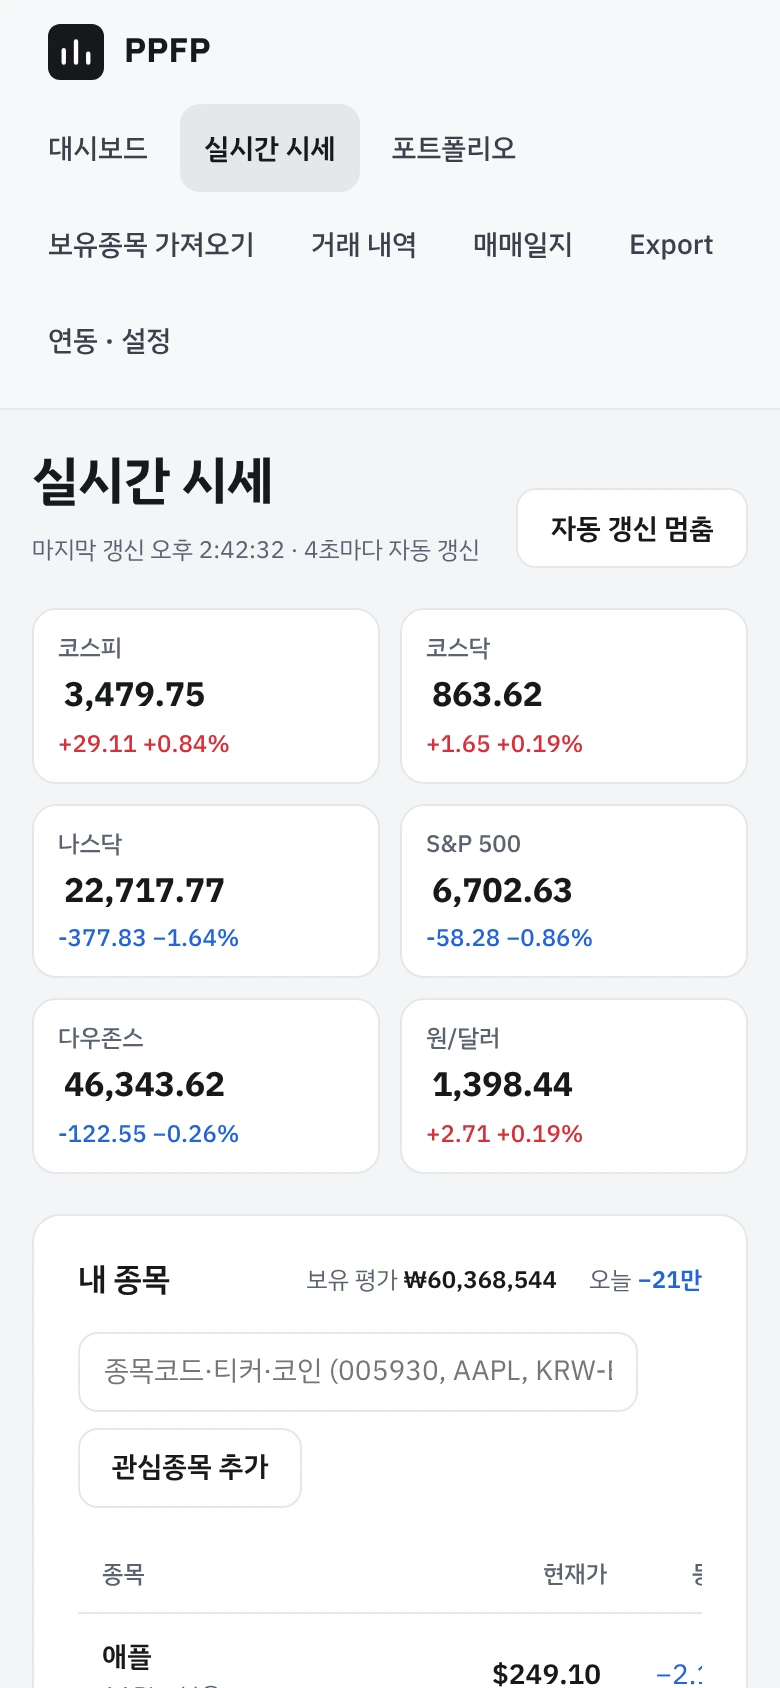
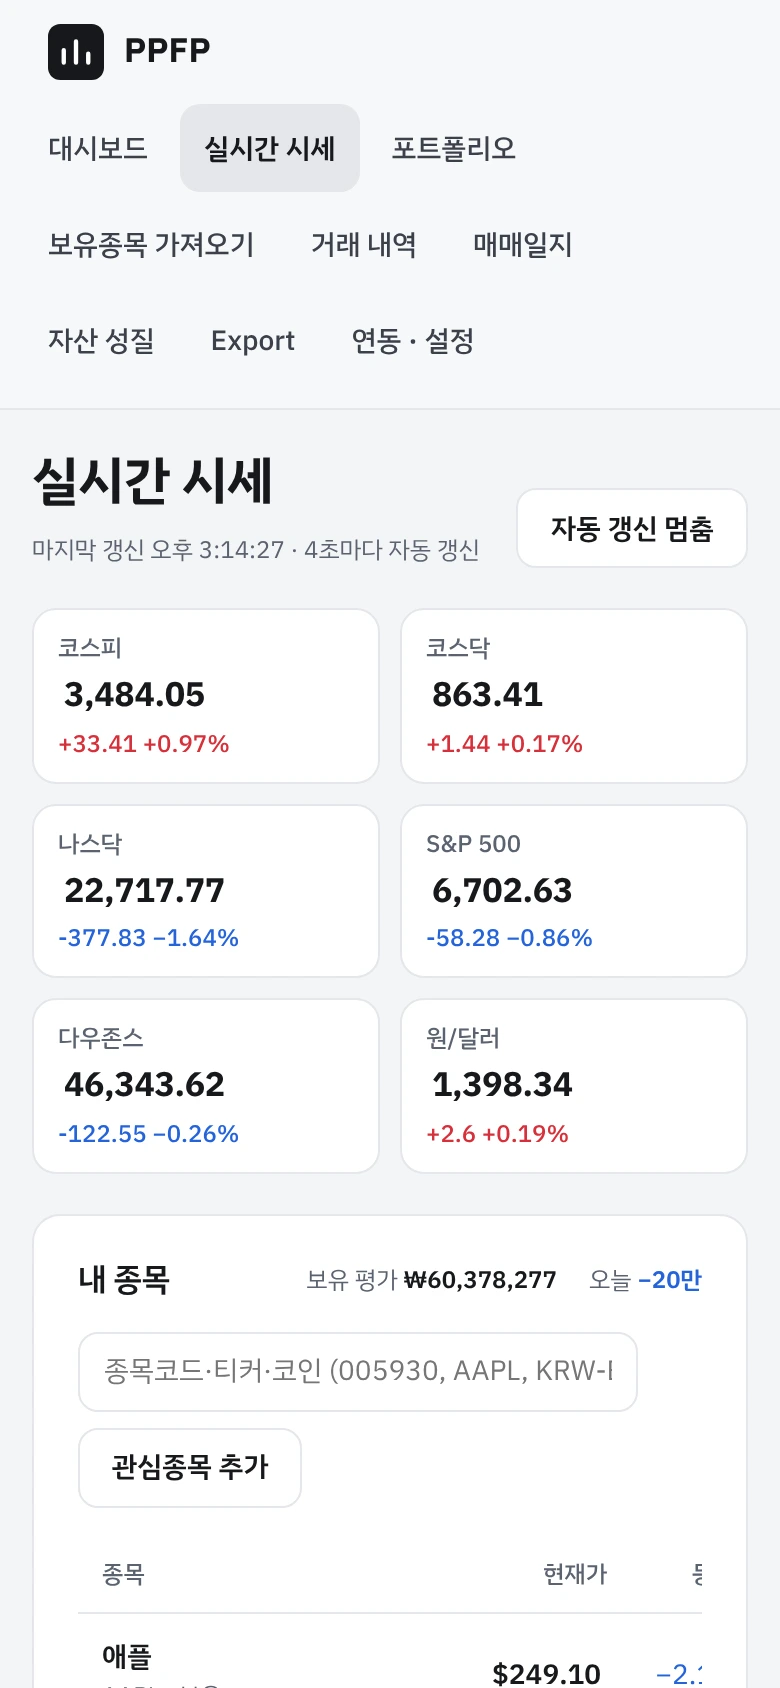
Document asset traits and the journal tree, with new screens
New 자산 성질 chapter (adding groups and where each preset comes from,
money- vs risk-weighting, comparing with targets, buy candidates, editing
targets and the share base), a 트리로 보기 section in 매매일지, and 성질별
배분 on the dashboard. The demo seed adds four trait groups with targets
and tags; captures wait for the stock chart to lay out.

Claude-Session: https://claude.ai/code/session_019GZ27AZDMeKkp4rfYLN2LS

diff --git a/scripts/docs/capture.ts b/scripts/docs/capture.ts
@@ -70,6 +70,9 @@ interface Ids {
   nvdaJournal: string;
   aaplJournal: string;
   template: string;
+  allWeather: string;
+  assetClass: string;
+  equityStyle: string;
 }
 
 const card = (heading: string, sel = 'h2'): Find => ({ sel, text: heading, closest: '.card' });
@@ -200,7 +203,7 @@ const SHOTS: Shot[] = [
     wait: 4000,
     width: 1280,
     clip: [{ sel: '.doc-bar' }, { sel: '.format-pick' }],
-    marks: [{ sel: '#j-target', closest: 'dd' }, { sel: '.chip' }, { sel: 'button', text: '속성 편집', closest: 'div' }, { sel: '.format-pick' }],
+    marks: [{ sel: '#j-target', closest: 'dd' }, { sel: 'button[aria-label="연결 해제"]', closest: '.chip' }, { sel: 'button', text: '속성 편집', closest: 'div' }, { sel: '.format-pick' }],
   },
   { file: 'journal-body', path: (ids) => `/journal/${ids.nvdaJournal}`, wait: 4000, width: 1280, clip: [{ sel: '.doc-body' }], pad: 16 },
   {
@@ -209,7 +212,12 @@ const SHOTS: Shot[] = [
     wait: 5000,
     width: 1280,
     scale: 2,
-    steps: [{ click: { sel: '.jb-stock button', text: '일' } }, { wait: 2500 }],
+    steps: [
+      { click: { sel: '.jb-stock button', text: '일' } },
+      { wait: 1500 },
+      { until: "(document.querySelector('.jb-stock .recharts-surface')?.getBoundingClientRect().width ?? 0) > 100 && document.querySelectorAll('.jb-stock .recharts-bar-rectangle').length > 40", timeout: 20_000 },
+      { wait: 1000 },
+    ],
     clip: [{ sel: '.jb-stock' }],
     pad: 16,
   },
@@ -252,6 +260,62 @@ const SHOTS: Shot[] = [
       { wait: 2500 },
     ],
     marks: [{ sel: '#journal-panel .journal-list button .strong' }, { sel: '.drawer .props' }],
+  },
+  {
+    file: 'journal-tree',
+    path: () => '/journal?view=tree',
+    wait: 2500,
+    clip: [{ sel: 'h2', text: '자산 구성 트리', closest: 'section' }],
+    pad: 0,
+    marks: [{ sel: '[aria-label="분류 기준"]' }, { sel: '.tree-node.k-category' }, { sel: '.tree-node.k-asset .tgl' }, { sel: '.tree-node.k-journal' }, { sel: '.tree-node.k-trade' }],
+  },
+  {
+    file: 'journal-tree-detail',
+    path: (ids) => `/journal?view=tree&by=${ids.allWeather}`,
+    wait: 2500,
+    steps: [{ press: { sel: '.tree-node.k-asset' } }, { until: "!!document.querySelector('.drawer.tree-detail')" }, { wait: 800 }],
+    marks: [{ sel: '.tree-node.k-asset' }, { sel: '.drawer.tree-detail .props' }, { sel: '.drawer.tree-detail .detail-list' }],
+  },
+  {
+    file: 'traits',
+    path: (ids) => `/traits?g=${ids.assetClass}`,
+    wait: 2500,
+    clip: [{ sel: '.page-head' }, { sel: 'h2', text: '무엇을 살까', closest: 'section' }],
+    marks: [{ sel: '[role="tablist"]' }, { sel: 'table.trait-table thead' }, { sel: '.alloc-bar .target' }, { sel: 'table.trait-table .badge.warn' }, { sel: 'h2', text: '무엇을 살까', closest: 'section' }],
+  },
+  {
+    file: 'traits-style',
+    path: (ids) => `/traits?g=${ids.equityStyle}`,
+    wait: 2500,
+    width: 1280,
+    clip: [{ sel: 'h2', text: '무엇을 살까', closest: 'section' }, { sel: 'h2', text: '종목별 성질 지정', closest: 'section' }],
+    marks: [{ sel: '.buy-row .chip-btn' }, { sel: '.trait-chip[aria-pressed="true"]' }, { sel: 'button', text: '성질 지정하기' }],
+  },
+  {
+    file: 'traits-edit',
+    path: (ids) => `/traits?g=${ids.equityStyle}`,
+    wait: 2500,
+    width: 1280,
+    steps: [{ click: { sel: 'button', text: '성질 · 목표 비중 편집' } }, { wait: 500 }],
+    clip: [{ sel: '.card.tight', within: { sel: 'h2', text: '주식 스타일', closest: 'section' } }],
+    marks: [{ sel: 'input[aria-label="목표 비중 %"]' }, { sel: 'span', text: '목표 합계' }, { sel: 'select', within: { sel: '.card.tight' } }],
+  },
+  {
+    file: 'traits-add',
+    path: () => '/traits',
+    wait: 2000,
+    width: 1280,
+    steps: [{ click: { sel: 'button[role="tab"]', text: '+ 분류 추가' } }, { wait: 500 }],
+    clip: [{ sel: 'h2', text: '분류 추가', closest: 'section' }],
+    marks: [{ sel: 'label', text: '자동으로 지정' }, { sel: 'h3', text: '지역', closest: '.card' }, { sel: 'h3', text: '직접 만들기', closest: '.card' }],
+  },
+  {
+    file: 'dashboard-traits',
+    path: (ids) => `/dashboard?alloc=trait&g=${ids.allWeather}`,
+    wait: 2500,
+    width: 1280,
+    clip: [card('자산 배분')],
+    marks: [{ sel: 'a', text: '성질', within: { sel: '[aria-label="배분 기준"]' } }, { sel: '[aria-label="성질 분류"]' }],
   },
   {
     file: 'journal-slash',
@@ -514,6 +578,9 @@ async function main() {
       nvdaJournal: await journal('NVDA'),
       aaplJournal: await journal('AAPL'),
       template: (await db.journalTemplate.findFirstOrThrow()).id,
+      allWeather: (await db.traitGroup.findFirstOrThrow({ where: { preset: 'allWeather' } })).id,
+      assetClass: (await db.traitGroup.findFirstOrThrow({ where: { preset: 'assetClass' } })).id,
+      equityStyle: (await db.traitGroup.findFirstOrThrow({ where: { preset: 'equityStyle' } })).id,
     };
     await db.$disconnect();
 

diff --git a/scripts/docs/seed-demo.ts b/scripts/docs/seed-demo.ts
@@ -1,8 +1,8 @@
 /**
  * Fills an empty database with the fictional demo account used for the user
  * guide's screenshots: a portfolio tree, a year of stock trades, an imported
- * brokerage account, a replayed 업비트 history, a manual deposit and a few
- * trade journal entries.
+ * brokerage account, a replayed 업비트 history, a manual deposit, a few
+ * trade journal entries and asset trait groups.
  *
  * Run by scripts/docs/capture.ts against its own throwaway database; never
  * against real data. Broker calls go to the fake servers in fake-market.cjs.
@@ -19,6 +19,7 @@ import { syncExchangeHistory } from '@/server/services/exchange-sync';
 import { importHoldings } from '@/server/services/imports';
 import { runDailyForUser } from '@/server/services/jobs';
 import { saveJournal, saveTemplate } from '@/server/services/journal';
+import { applyExampleTargets, createGroupFromPreset, saveGroup, setAssetTraits, trackWatchItem } from '@/server/services/traits';
 import { createPortfolio } from '@/server/services/portfolios';
 import { BUILTIN_FORMATS } from '@/domain/journal';
 import { recordBuy, recordCash, recordSell, recordValuation } from '@/server/services/trading';
@@ -129,6 +130,7 @@ async function main() {
 
   await runDailyForUser(uid, { fullRebuild: true });
   await seedJournals(uid);
+  await seedTraits(uid);
 
   const token = newToken();
   await prisma.session.create({ data: { id: sha256(token), userId: uid, expiresAt: new Date(Date.now() + D) } });
@@ -265,6 +267,45 @@ async function seedJournals(uid: string) {
     ],
     content: [h2('발표 전 기대'), li(''), h2('발표 후 반응'), li(''), h2('대응'), todo('')],
   });
+}
+
+// ---------------------------------------------------------------- asset traits
+async function seedTraits(uid: string) {
+  await createGroupFromPreset(uid, 'allWeather', true);
+  const cls = await createGroupFromPreset(uid, 'assetClass', true);
+  await applyExampleTargets(uid, cls);
+  const style = await createGroupFromPreset(uid, 'equityStyle', false);
+  const role = await createGroupFromPreset(uid, 'role', false);
+  await applyExampleTargets(uid, role);
+  const traitsOf = async (groupId: string) => new Map((await prisma.trait.findMany({ where: { groupId } })).map((t) => [t.name, t]));
+  const styles = await traitsOf(style);
+  await saveGroup(uid, style, {
+    name: '주식 스타일',
+    cashTrait: '',
+    traits: [...styles.values()]
+      .sort((a, b) => a.sortOrder - b.sortOrder)
+      .map((t) => ({ id: t.id, name: t.name, color: t.color, description: t.description ?? '', target: { 성장주: '40', 가치주: '30', 배당주: '20', 혼합: '10' }[t.name] ?? '' })),
+  });
+  const roles = await traitsOf(role);
+  const tesla = await trackWatchItem(uid, 'TSLA');
+  const bySymbol = async (symbol: string) => (await prisma.asset.findFirstOrThrow({ where: { userId: uid, symbol } })).id;
+  const tag = async (symbol: string, groupId: string, names: string[], map: Map<string, { id: string }>) =>
+    setAssetTraits(uid, symbol === 'TSLA' ? tesla : await bySymbol(symbol), groupId, names.map((n) => map.get(n)!.id));
+  for (const [sym, st, ro] of [
+    ['AAPL', '성장주', '핵심'],
+    ['NVDA', '성장주', '위성'],
+    ['VOO', '혼합', '핵심'],
+    ['005930', '가치주', '핵심'],
+    ['000660', '성장주', '위성'],
+    ['069500', '혼합', '핵심'],
+    ['TSLA', '성장주', '위성'],
+  ] as const) {
+    await tag(sym, style, [st], styles);
+    await tag(sym, role, [ro], roles);
+  }
+  for (const sym of ['KRW-BTC', 'KRW-ETH', 'KRW-XRP', 'KRW-SOL']) {
+    if (await prisma.asset.findFirst({ where: { userId: uid, symbol: sym } })) await tag(sym, role, ['위성'], roles);
+  }
 }
 
 main()
